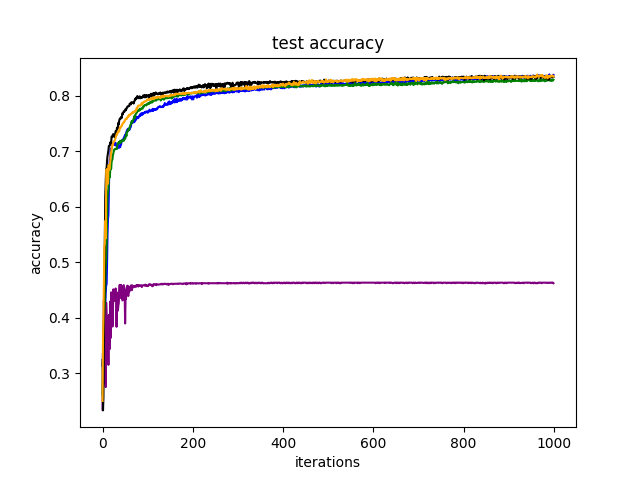
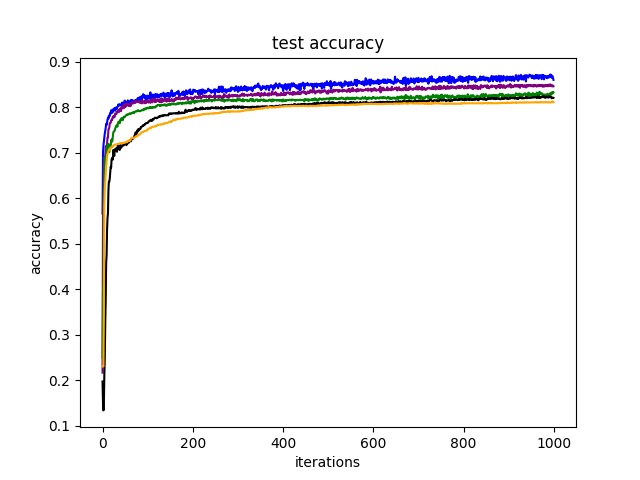
for loop on batches, question 2

diff --git a/Proj1/Project_1a/begin_project_1a.py b/Proj1/Project_1a/begin_project_1a.py
@@ -41,7 +41,7 @@ def shuffle_data (samples, labels):
 
 decay = 1e-6
 learning_rate = 0.01
-epochs = 200
+epochs = 1000
 
 #Was 32
 #batch_size = 32
@@ -50,22 +50,24 @@ batch_sizes = [4, 8, 16, 32, 64]
 
 #To make distinction between graphs
 colors = {4:"blue", 8:"purple", 16:"green", 32:"black", 64:"orange"}
+# theano expressions
 
 
 for batch_size in batch_sizes:
-# theano expressions
-    X = T.matrix() #features
-    Y = T.matrix() #output
+    X = T.matrix()  # features
+    Y = T.matrix()  # output
 
-    w1, b1 = init_weights(36, 10), init_bias(10) #weights and biases from input to hidden layer
-    w2, b2 = init_weights(10, 6, logistic=False), init_bias(6) #weights and biases from hidden to output layer
+    w1, b1 = init_weights(36, 10), init_bias(10)  # weights and biases from input to hidden layer
+
+
+    w2, b2 = init_weights(10, 6, logistic=False), init_bias(6)  # weights and biases from hidden to output layer
 
     h1 = T.nnet.sigmoid(T.dot(X, w1) + b1)
     py = T.nnet.softmax(T.dot(h1, w2) + b2)
 
     y_x = T.argmax(py, axis=1)
 
-    cost = T.mean(T.nnet.categorical_crossentropy(py, Y)) + decay*(T.sum(T.sqr(w1)+T.sum(T.sqr(w2))))
+    cost = T.mean(T.nnet.categorical_crossentropy(py, Y)) + decay * (T.sum(T.sqr(w1) + T.sum(T.sqr(w2))))
     params = [w1, b1, w2, b2]
     updates = sgd(cost, params, learning_rate)
 
@@ -73,60 +75,39 @@ for batch_size in batch_sizes:
     train = theano.function(inputs=[X, Y], outputs=cost, updates=updates, allow_input_downcast=True)
     predict = theano.function(inputs=[X], outputs=y_x, allow_input_downcast=True)
 
+    # read train data
+    train_input = np.loadtxt('sat_train.txt', delimiter=' ')
 
-    #read train data
-    train_input = np.loadtxt('sat_train.txt',delimiter=' ')
-    trainX, train_Y = train_input[:,:36], train_input[:,-1].astype(int)
-    trainX_min, trainX_max = np.min(trainX, axis=0), np.max(trainX, axis=0)
-    trainX = scale(trainX, trainX_min, trainX_max)
-
-    #Next line for changing class 7s to 6?
-    train_Y[train_Y == 7] = 6
-    trainY = np.zeros((train_Y.shape[0], 6))
-    trainY[np.arange(train_Y.shape[0]), train_Y-1] = 1
-
-
-    #read test data
-    test_input = np.loadtxt('sat_test.txt',delimiter=' ')
-    testX, test_Y = test_input[:,:36], test_input[:,-1].astype(int)
+    # read test data
+    test_input = np.loadtxt('sat_test.txt', delimiter=' ')
+    testX, test_Y = test_input[:, :36], test_input[:, -1].astype(int)
 
     testX_min, testX_max = np.min(testX, axis=0), np.max(testX, axis=0)
     testX = scale(testX, testX_min, testX_max)
 
     test_Y[test_Y == 7] = 6
     testY = np.zeros((test_Y.shape[0], 6))
-    testY[np.arange(test_Y.shape[0]), test_Y-1] = 1
+    testY[np.arange(test_Y.shape[0]), test_Y - 1] = 1
 
+    trainX, train_Y = train_input[:, :36], train_input[:, -1].astype(int)
+    trainX_min, trainX_max = np.min(trainX, axis=0), np.max(trainX, axis=0)
+    trainX = scale(trainX, trainX_min, trainX_max)
 
-
-
-
-    print(trainX.shape, trainY.shape)
-    print(testX.shape, testY.shape)
-
-    # first, experiment with a small sample of data
-    ##trainX = trainX[:1000]
-    ##trainY = trainY[:1000]
-    ##testX = testX[-250:]
-    ##testY = testY[-250:]
-
+    # Next line for changing class 7s to 6?
+    train_Y[train_Y == 7] = 6
+    trainY = np.zeros((train_Y.shape[0], 6))
+    trainY[np.arange(train_Y.shape[0]), train_Y - 1] = 1
 
     # train and test
     n = len(trainX)
 
     #Initializing following lists inside the for loops, and make them global
-    test_accuracy = []
-    train_cost = []
-
-
-
-
     test_accuracy =[]
     train_cost = []
     time_list = []
 
 
-
+    #Initialize start time to in every iteration
     start_time = time.time()
 
 
@@ -139,18 +120,19 @@ for batch_size in batch_sizes:
         cost = 0.0
         for start, end in zip(range(0, n, batch_size), range(batch_size, n, batch_size)):
             cost += train(trainX[start:end], trainY[start:end])
-            #Measure time spent by every computation
+
+        #Measure time spent by every computation
         time_list.append(time.time()-start_time)
 
         train_cost = np.append(train_cost, cost/(n // batch_size))
         test_accuracy = np.append(test_accuracy, np.mean(np.argmax(testY, axis=1) == predict(testX)))
 
     plt.figure("cost")
-    plt.plot(range(epochs), train_cost, color = colors[batch_size], label = "test")
+    plt.plot(range(epochs), train_cost, color = colors[batch_size], label = "Batch size: " + str(batch_size))
     plt.figure("accuracy")
-    plt.plot(range(epochs), test_accuracy, color = colors[batch_size])
+    plt.plot(range(epochs), test_accuracy, color = colors[batch_size], label = "Batch size: " + str(batch_size))
     plt.figure("time")
-    plt.plot(range(epochs), time_list, color = colors[batch_size])
+    plt.plot(range(epochs), time_list, color = colors[batch_size], label = "Batch size: " + str(batch_size))
 
 
 

diff --git a/Proj1/Project_1a/question_3.py b/Proj1/Project_1a/question_3.py
@@ -38,10 +38,10 @@ def shuffle_data (samples, labels):
     samples, labels = samples[idx], labels[idx]
     return samples, labels
 
-colors = {4:"blue", 8:"purple", 16:"green", 32:"black", 64:"orange"}
+colors = {5:"blue", 10:"purple", 15:"green", 20:"black", 25:"orange"}
 decay = 1e-6
 learning_rate = 0.01
-epochs = 1000
+epochs = 100
 
 #Was 32
 #batch_size = 32
@@ -147,11 +147,13 @@ for neurons in hidden_layer_options:
         test_accuracy = np.append(test_accuracy, np.mean(np.argmax(testY, axis=1) == predict(testX)))
 
     plt.figure("cost")
-    plt.plot(range(epochs), train_cost, color=colors[batch_size], label="test")
+    plt.plot(range(epochs), train_cost, color=colors[neurons], label="Neurons: " + str(neurons))
     plt.figure("accuracy")
-    plt.plot(range(epochs), test_accuracy, color=colors[batch_size])
+    plt.plot(range(epochs), test_accuracy, color=colors[neurons], label="Neurons: " + str(neurons))
     plt.figure("time")
-    plt.plot(range(epochs), time_list, color=colors[batch_size])
+    plt.plot(range(epochs), time_list, color=colors[neurons], label="Neurons: " + str(neurons))
+    plt.annotate("%0.1f" % max(time_list), xy = (1, max(time_list)), xytext = (8,0),
+                 textcoords = "offset points", ha = "right", va = "center")
 
 
 
@@ -165,6 +167,7 @@ plt.xlabel('iterations')
 plt.ylabel('cross-entropy')
 plt.title('training cost')
 plt.savefig('p1a_sample_cost.png')
+plt.legend(loc = "best")
 
 plt.figure("accuracy")
 #plt.plot(range(epochs), test_accuracy)
@@ -172,7 +175,10 @@ plt.xlabel('iterations')
 plt.ylabel('accuracy')
 plt.title('test accuracy')
 plt.savefig('p1a_sample_accuracy.png')
+plt.legend(loc = "best")
 
+plt.figure("time")
+plt.legend(loc = "best")
 plt.show()
 
 

diff --git a/Proj1/Project_1a/question_4.py b/Proj1/Project_1a/question_4.py
@@ -51,7 +51,7 @@ colors = {0:"blue", 1e-3:"purple", 1e-6:"green", 1e-9:"black", 1e-12:"orange"}
 batch_size = 16
 neurons = 5
 
-possible_decay_parameters = [0, math.pow(10, -3), math.pow(10, -6), math.pow(10, -9), math.pow(10, -12)]
+possible_decay_parameters = [0, 1e-3, 1e-6, 1e-9, 1e-12]
 
 for decay in possible_decay_parameters:
 
@@ -64,7 +64,7 @@ for decay in possible_decay_parameters:
     w2, b2 = init_weights(neurons, 6, logistic=False), init_bias(6) #weights and biases from hidden to output layer
 
     h1 = T.nnet.sigmoid(T.dot(X, w1) + b1)
-    py = T.nnet.softmax(T.dot(h1, w2) + b2)
+    py = T.nnet.softmax(T.doxt(h1, w2) + b2)
 
     y_x = T.argmax(py, axis=1)
 
